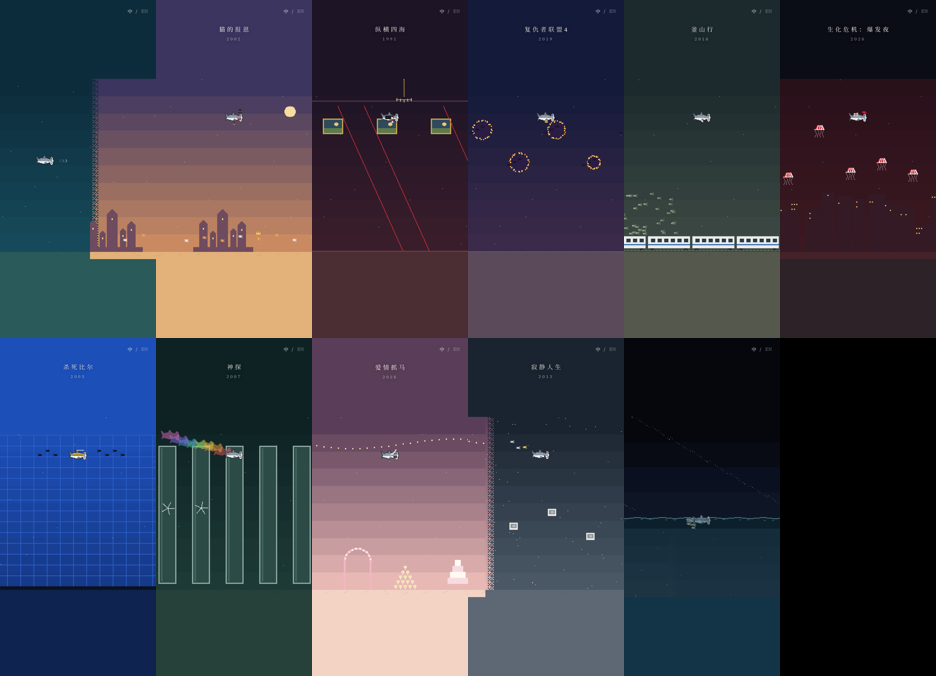
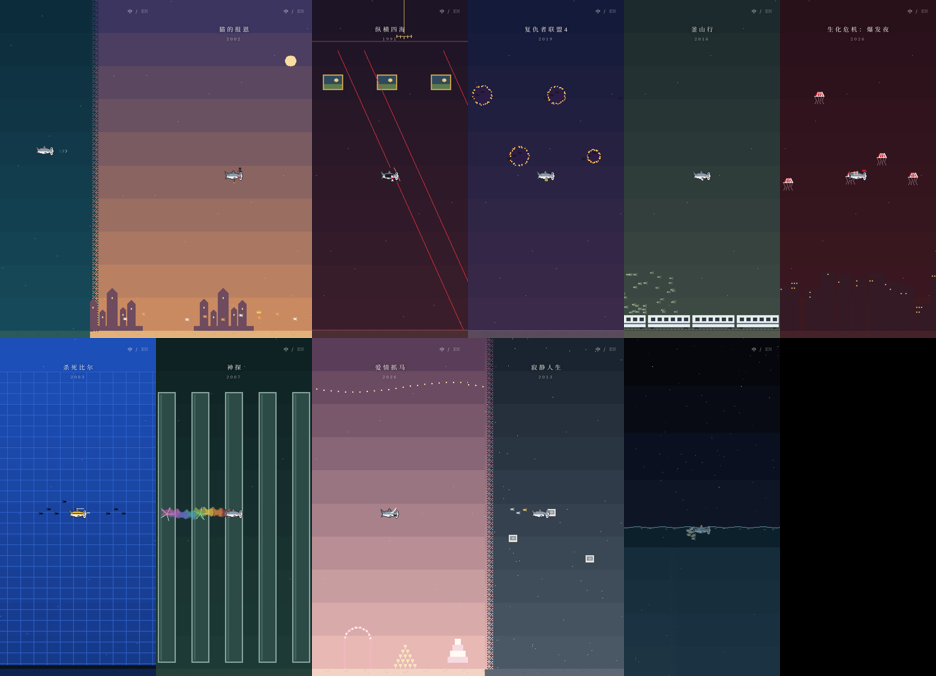
sea: full-height portrait, start lane, star scatter; journey-v03 + sea shot tools

diff --git a/src/stages/sea/main.ts b/src/stages/sea/main.ts
@@ -16,8 +16,8 @@ import './style.css';
 
 register(dict); markReached('sea'); mountChrome({ sound: false, theme: 'dark' });
 const host = document.getElementById('sea')!;
-const screen = new PixelScreen({ host, minW: 200, minH: 170, maxH: 300 });
-// tall phones: the picture is capped at 300 logical px high; above/below it the host continues the water and the sand
+const screen = new PixelScreen({ host, minW: 200, minH: 170, maxH: 640 });
+// very tall screens: the picture is capped; above/below it the host continues the water and the sand
 let hostBg = '';
 const paintHost = (top: string, sand: string) => { const v = `linear-gradient(${top} 50%, ${sand} 50%)`; if (v !== hostBg) { hostBg = v; host.style.background = v; } };
 const g = screen.ctx;
@@ -29,7 +29,7 @@ const GHOST = ['#e05a5a', '#f2a33a', '#e8d04a', '#5ab86a', '#4a9ad9', '#8a6ad9',
 // ---------- state ----------
 const at = Math.max(0, Math.min(9, +(params.get('at') || 0)));
 const auto = params.has('auto');
-const S = { x: at ? INTRO + (at - 1) * L + 10 : 30, y: -SH, vx: 0, vy: 0, t: 0 };
+const S = { x: at ? INTRO + (at - 1) * L + 10 : 30, y: at ? screen.h * 0.5 : -SH, vx: 0, vy: 0, t: 0 };
 let cam = Math.max(0, S.x - 80), touched = false, held: { x: number; y: number } | null = null, keys = new Set<string>();
 let scene = -1, wipe: { k: number; s: Scene } | null = null, ending: { t: number; y0: number; x0: number } | null = null, left = false;
 const trail: { x: number; y: number }[] = [];
@@ -65,7 +65,7 @@ function update(dt: number) {
   if (intro) { S.y += ((screen.h * 0.42) - S.y) * Math.min(1, dt * 1.6); S.vx += (18 - S.vx) * dt; }
   else if (held) { const dx = held.x - (S.x + SW / 2), dy = held.y - (S.y + SH / 2); ax = Math.max(-1, Math.min(1, dx / 40)) * 160; ay = Math.max(-1, Math.min(1, dy / 30)) * 160; }
   else if (keys.size) { ax = ((keys.has('arrowright') || keys.has('d')) ? 1 : 0) - ((keys.has('arrowleft') || keys.has('a')) ? 1 : 0); ay = ((keys.has('arrowdown') || keys.has('s')) ? 1 : 0) - ((keys.has('arrowup') || keys.has('w')) ? 1 : 0); ax *= 160; ay *= 160; if (!ax) ax = (20 - S.vx) * 2; }
-  else { ax = ((auto ? 140 : 20) * slow - S.vx) * 1.5; ay = ((screen.h * 0.45 + Math.sin(S.t * 0.7) * 10) - S.y) * 0.8 - S.vy * 1.2; } // drift on
+  else { ax = ((auto ? 140 : 20) * slow - S.vx) * 1.5; ay = ((screen.h * 0.5 + Math.sin(S.t * 0.7) * 10) - S.y) * 0.8 - S.vy * 1.2; } // drift on
   if (!intro) { S.vx += ax * dt; S.vy += ay * dt; }
   const max = (auto ? 160 : 78) * slow; S.vx = Math.max(-50, Math.min(max, S.vx)) * (1 - dt * 0.8); S.vy = Math.max(-60, Math.min(60, S.vy)) * (1 - dt * 1.6);
   S.x += S.vx * dt; if (!intro) S.y += S.vy * dt;
@@ -144,7 +144,7 @@ function renderSurface(oy: number) {
   const w = screen.w, h = screen.h, surf = Math.round(-h * 0.06 + oy); if (surf <= 0) return;
   const top = ['#05070d', '#080b14', '#0b1020', '#0e1626'];
   for (let b = 0; b < top.length; b++) R(g, 0, Math.round(surf * b / top.length), w, Math.ceil(surf / top.length) + 1, top[b]);
-  for (let i = 0; i < 90; i++) { const x = (cellHash(i, 1) * w) | 0, y = (cellHash(i, 7) * surf * 0.92) | 0, tw = 0.55 + 0.45 * Math.sin(S.t * 2 + i); g.globalAlpha = (i % 6 === 0 ? 1 : 0.5) * tw; R(g, x, y, 1, 1, '#ece8df'); } g.globalAlpha = 1;
+  for (let i = 0; i < 90; i++) { const x = (cellHash(i, 1) * w) | 0, y = (cellHash(7, i * 1.37) * surf * 0.92) | 0, tw = 0.55 + 0.45 * Math.sin(S.t * 2 + i); g.globalAlpha = (i % 6 === 0 ? 1 : 0.5) * tw; R(g, x, y, 1, 1, '#ece8df'); } g.globalAlpha = 1;
   // the shark breaks the surface: redraw it over the sky, then the water (translucent) over its lower part
   const sx = Math.round(S.x - cam), sy = Math.round(S.y + oy);
   draw(g, frameAt(swim, S.t * 0.6), sx, sy);
